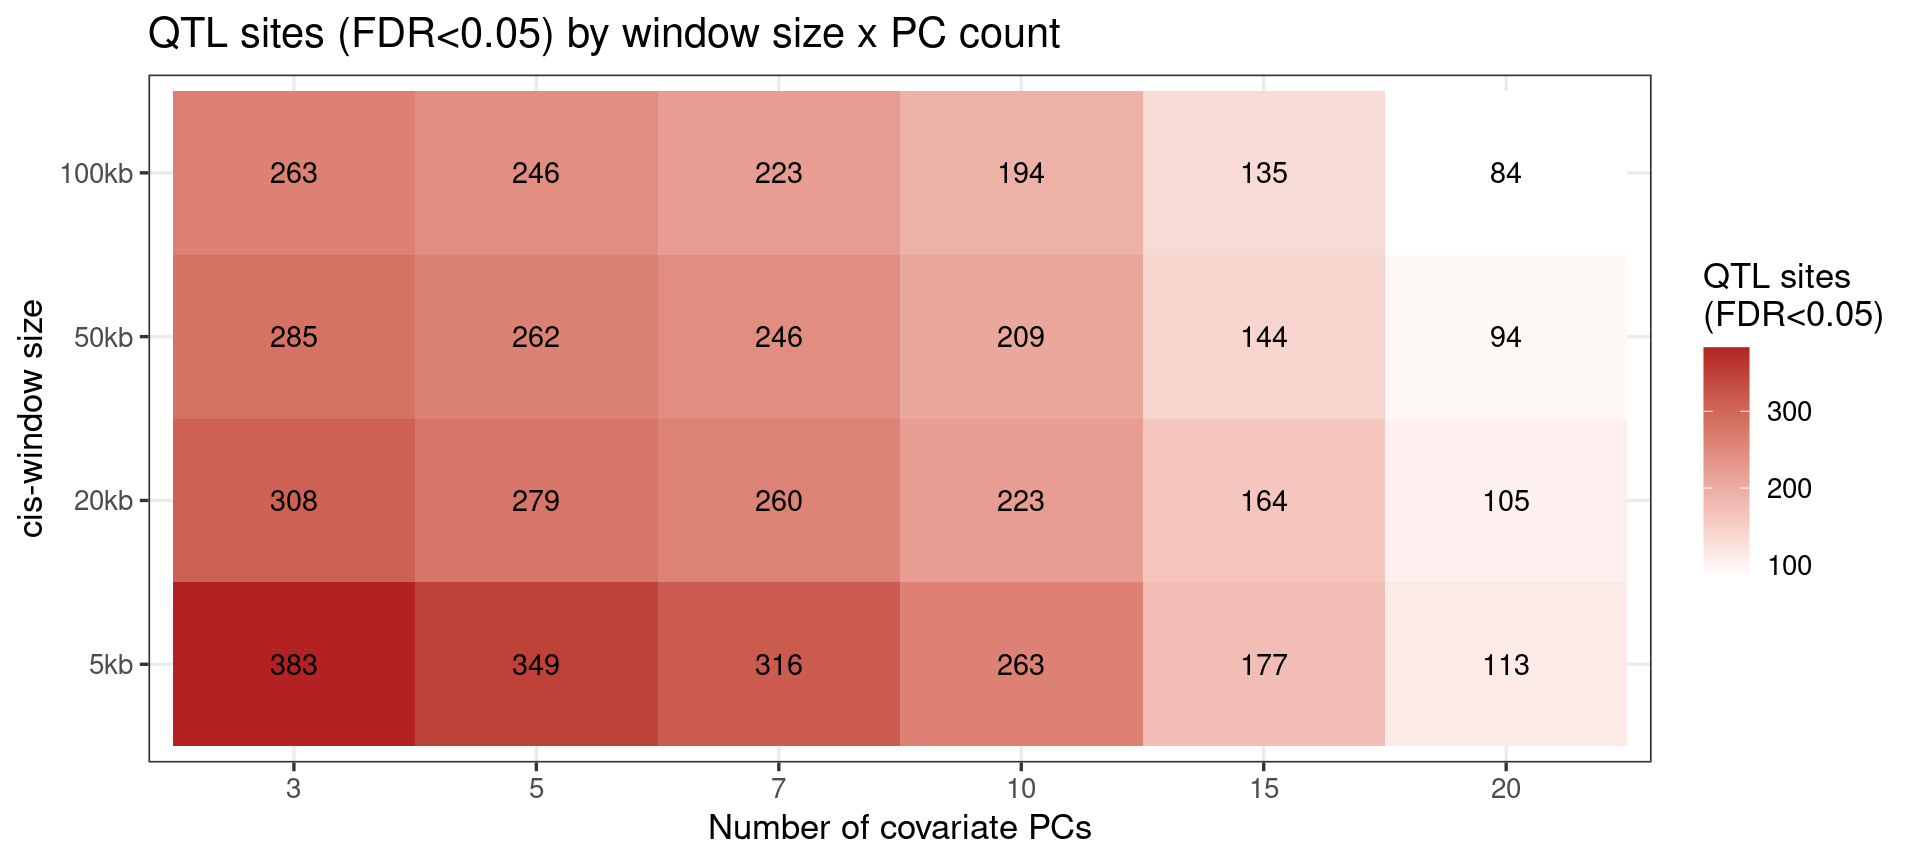
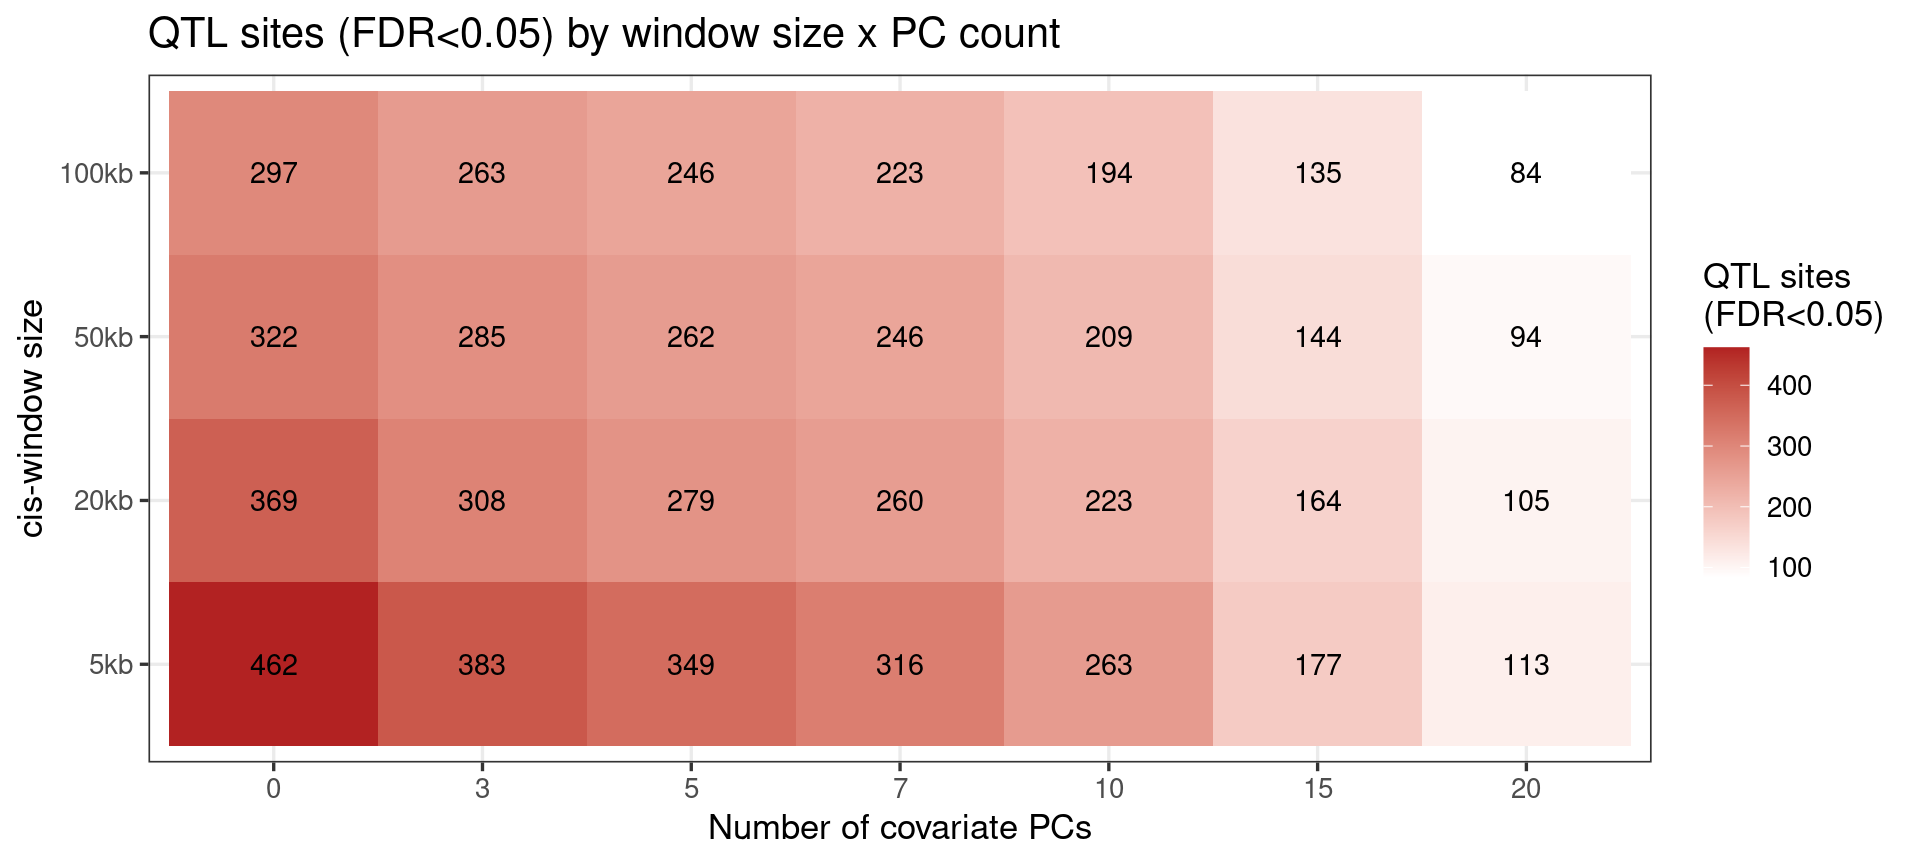
update

diff --git a/docs/qtl_mapping_summary_binomial.html b/docs/qtl_mapping_summary_binomial.html
@@ -11,7 +11,7 @@
 
 <meta name="author" content="XSun" />
 
-<meta name="date" content="2026-07-27" />
+<meta name="date" content="2026-07-31" />
 
 <title>QTL mapping: binomial GLM on the 5-fold union sites</title>
 
@@ -374,7 +374,7 @@ div.tocify {
 <h1 class="title toc-ignore">QTL mapping: binomial GLM on the 5-fold
 union sites</h1>
 <h4 class="author">XSun</h4>
-<h4 class="date">2026-07-27</h4>
+<h4 class="date">2026-07-31</h4>
 
 </div>
 
@@ -403,7 +403,7 @@ aria-hidden="true"></span> </a>
 <div class="tab-content">
 <div id="summary" class="tab-pane fade in active">
 <p>
-<strong>Last updated:</strong> 2026-07-27
+<strong>Last updated:</strong> 2026-07-31
 </p>
 <p>
 <strong>Checks:</strong> <span
@@ -537,15 +537,15 @@ project makes it easier to run your code on other machines.</p>
 <div class="panel panel-default">
 <div class="panel-heading">
 <p class="panel-title">
-<a data-toggle="collapse" data-parent="#workflowr-checks" href="#strongRepositoryversionstrongahrefhttpsgithubcomxsun1229pumseqtree84747dd7624a3da42ce2fbb0f8c8e21635975257targetblank84747dda">
+<a data-toggle="collapse" data-parent="#workflowr-checks" href="#strongRepositoryversionstrongahrefhttpsgithubcomxsun1229pumseqtree08ba4ea47116d7143c4f3de8ca017a9b15c8fa9ctargetblank08ba4eaa">
 <span class="glyphicon glyphicon-ok text-success"
 aria-hidden="true"></span> <strong>Repository version:</strong>
-<a href="https://github.com/xsun1229/pumseq/tree/84747dd7624a3da42ce2fbb0f8c8e21635975257" target="_blank">84747dd</a>
+<a href="https://github.com/xsun1229/pumseq/tree/08ba4ea47116d7143c4f3de8ca017a9b15c8fa9c" target="_blank">08ba4ea</a>
 </a>
 </p>
 </div>
 <div
[2 lines of base64/hex data omitted]
 class="panel-collapse collapse">
 <div class="panel-body">
 <p>
@@ -555,7 +555,7 @@ reproducibility.
 </p>
 <p>
 The results in this page were generated with repository version
-<a href="https://github.com/xsun1229/pumseq/tree/84747dd7624a3da42ce2fbb0f8c8e21635975257" target="_blank">84747dd</a>.
+<a href="https://github.com/xsun1229/pumseq/tree/08ba4ea47116d7143c4f3de8ca017a9b15c8fa9c" target="_blank">08ba4ea</a>.
 See the <em>Past versions</em> tab to see a history of the changes made
 to the R Markdown and HTML files.
 </p>
@@ -570,6 +570,7 @@ were generated:
 </p>
 <pre><code>
 Ignored files:
+    Ignored:    analysis/figure/
     Ignored:    analysis/qtl_mapping_summary_cache/
 
 Unstaged changes:
@@ -620,6 +621,40 @@ Message
 </tr>
 </thead>
 <tbody>
+<tr>
+<td>
+Rmd
+</td>
+<td>
+<a href="https://github.com/xsun1229/pumseq/blob/9791cb2e1193b07fc19f4f57491a1928a6793708/analysis/qtl_mapping_summary_binomial.Rmd" target="_blank">9791cb2</a>
+</td>
+<td>
+XSun
+</td>
+<td>
+2026-07-27
+</td>
+<td>
+update
+</td>
+</tr>
+<tr>
+<td>
+html
+</td>
+<td>
+<a href="https://rawcdn.githack.com/xsun1229/pumseq/9791cb2e1193b07fc19f4f57491a1928a6793708/docs/qtl_mapping_summary_binomial.html" target="_blank">9791cb2</a>
+</td>
+<td>
+XSun
+</td>
+<td>
+2026-07-27
+</td>
+<td>
+update
+</td>
+</tr>
 <tr>
 <td>
 Rmd
@@ -792,7 +827,7 @@ knitr::opts_chunk$set(
 PROJECT_DIR &lt;- &quot;/project/xinhe/xsun/pumseq&quot;
 RES &lt;- file.path(PROJECT_DIR, &quot;pumseq_processed/psi_qtl/qtl_binomial/lrt_results_merged&quot;)
 WINDOWS_KB &lt;- c(5, 20, 50, 100)
-PC_COUNTS  &lt;- c(3, 5, 7, 10, 15, 20)</code></pre>
+PC_COUNTS  &lt;- c(0, 3, 5, 7, 10, 15, 20)</code></pre>
 <div id="introduction" class="section level1">
 <h1>Introduction</h1>
 <p>This page summarizes cis-QTL mapping for pseudouridylation (%pU)
@@ -907,10 +942,11 @@ p per site.</li>
 </ol>
 <p>Two things are swept:</p>
 <ul>
-<li><strong>Covariate PCs</strong>: 3, 5, 7, 10, 15, 20.</li>
+<li><strong>Covariate PCs</strong>: 0 (intercept-only, no phenotype-PC
+covariates), 3, 5, 7, 10, 15, 20.</li>
 <li><strong>cis-window</strong>: 5 kb, 20 kb, 50 kb, 100 kb.</li>
 </ul>
-<p>That is a 6 x 4 grid, each cell a separate scan.</p>
+<p>That is a 7 x 4 grid, each cell a separate scan.</p>
 </div>
 <div id="results-qtl-sites-by-pc-count-and-window-size"
 class="section level1">
@@ -940,6 +976,7 @@ number of PCs</caption>
 <thead>
 <tr class="header">
 <th align="right">window_kb</th>
+<th align="right">0</th>
 <th align="right">3</th>
 <th align="right">5</th>
 <th align="right">7</th>
@@ -951,6 +988,7 @@ number of PCs</caption>
 <tbody>
 <tr class="odd">
 <td align="right">5</td>
+<td align="right">462</td>
 <td align="right">383</td>
 <td align="right">349</td>
 <td align="right">316</td>
@@ -960,6 +998,7 @@ number of PCs</caption>
 </tr>
 <tr class="even">
 <td align="right">20</td>
+<td align="right">369</td>
 <td align="right">308</td>
 <td align="right">279</td>
 <td align="right">260</td>
@@ -969,6 +1008,7 @@ number of PCs</caption>
 </tr>
 <tr class="odd">
 <td align="right">50</td>
+<td align="right">322</td>
 <td align="right">285</td>
 <td align="right">262</td>
 <td align="right">246</td>
@@ -978,6 +1018,7 @@ number of PCs</caption>
 </tr>
 <tr class="even">
 <td align="right">100</td>
+<td align="right">297</td>
 <td align="right">263</td>
 <td align="right">246</td>
 <td align="right">223</td>
@@ -1016,6 +1057,17 @@ Date
 </tr>
 </thead>
 <tbody>
+<tr>
+<td>
+<a href="https://github.com/xsun1229/pumseq/blob/9791cb2e1193b07fc19f4f57491a1928a6793708/docs/figure/qtl_mapping_summary_binomial.Rmd/qtl-vs-pc-1.png" target="_blank">9791cb2</a>
+</td>
+<td>
+XSun
+</td>
+<td>
+2026-07-27
+</td>
+</tr>
 <tr>
 <td>
 <a href="https://github.com/xsun1229/pumseq/blob/84747dd7624a3da42ce2fbb0f8c8e21635975257/docs/figure/qtl_mapping_summary_binomial.Rmd/qtl-vs-pc-1.png" target="_blank">84747dd</a>
@@ -1074,6 +1126,17 @@ Date
 <tbody>
 <tr>
 <td>
+<a href="https://github.com/xsun1229/pumseq/blob/9791cb2e1193b07fc19f4f57491a1928a6793708/docs/figure/qtl_mapping_summary_binomial.Rmd/qtl-heatmap-1.png" target="_blank">9791cb2</a>
+</td>
+<td>
+XSun
+</td>
+<td>
+2026-07-27
+</td>
+</tr>
+<tr>
+<td>
 <a href="https://github.com/xsun1229/pumseq/blob/84747dd7624a3da42ce2fbb0f8c8e21635975257/docs/figure/qtl_mapping_summary_binomial.Rmd/qtl-heatmap-1.png" target="_blank">84747dd</a>
 </td>
 <td>
@@ -1101,14 +1164,16 @@ XSun
 <p>QTL counts <strong>fall monotonically as more covariate PCs are
 added</strong>, at every window size, and the <strong>cis-window has
 little effect</strong> (for a given PC count all four windows give
-nearly the same count). The most sites are called with the
-<strong>fewest PCs</strong> (k=3, the smallest tested).</p>
+nearly the same count). The most sites are called with <strong>no PC
+covariates at all</strong> (k=0, intercept-only) — 462 sites at
+FDR&lt;0.05, 5kb — and counts decline steadily from there through k=3
+(383) up to k=20 (113).</p>
 <!-- This is the opposite of the usual eQTL PC sweep, where a few PCs boost -->
 <!-- power. It points one of two ways: (a) the M-value PCs are absorbing real -->
 <!-- signal (so few/no PCs are best), or (b) low PC counts under-correct and the -->
-<!-- extra calls at low k are inflated. The calibration check (permutation) at -->
-<!-- low k is what distinguishes these, and is the next step. Because discoveries -->
-<!-- keep rising toward k=3, k=0/1/2 should also be tested. -->
+<!-- extra calls at low k are inflated. The calibration check (permutation) -->
+<!-- below was only run at 5kb/3PC, not at k=0 -- so whether k=0's higher count -->
+<!-- reflects (a) or (b) is still open. -->
 <!-- # 5. Top QTL sites -->
 <!-- ```{r top-hits} -->
 <!-- best <- summary_tbl[which.max(qtl_FDR05)] -->
@@ -1132,7 +1197,9 @@ genomic-inflation factor <code>lambda</code> (median chi-square / 0.455;
 should be ~1 under a calibrated null) and a QQ-plot. Same
 negative-control permutation as the <a
 href="qtl_mapping_summary_floor0_quantile.html#Permutation_control">linear
-model</a>. Run at the peak config (<strong>5 kb, 3 PCs</strong>).</p>
+model</a>. Run at <strong>5 kb, 3 PCs</strong> (the smallest PC count
+calibration was checked at; k=0 has not been calibration-tested, so its
+higher raw discovery count above should be read with that caveat).</p>
 <pre class="r"><code>CAL_LRT &lt;- file.path(PROJECT_DIR, &quot;pumseq_processed/psi_qtl/qtl_binomial/lrt_calibration&quot;)
 lam_lrt &lt;- fread(file.path(CAL_LRT, &quot;calib_lrt_w5kb_pc3_lambda.txt&quot;))
 knitr::kable(lam_lrt, digits = 2,
@@ -1209,7 +1276,7 @@ Session information
 <pre class="r"><code>sessionInfo()</code></pre>
 <pre><code>R version 4.2.0 (2022-04-22)
 Platform: x86_64-pc-linux-gnu (64-bit)
-Running under: Red Hat Enterprise Linux 8.10 (Ootpa)
+Running under: Red Hat Enterprise Linux 8.4 (Ootpa)
 
 Matrix products: default
 BLAS/LAPACK: /software/openblas-0.3.13-el8-x86_64/lib/libopenblas_skylakexp-r0.3.13.so

diff --git a/docs/site_libs/navigation-1.1/codefolding.js b/docs/site_libs/navigation-1.1/codefolding.js
@@ -31,7 +31,7 @@ window.initializeCodeFolding = function(show) {
     $(this).detach().appendTo(div);
 
     // add a show code button right above
-    var showCodeText = $('<span>' + (showThis ? 'Hide' : 'Show') + '</span>');
+    var showCodeText = $('<span>' + (showThis ? 'Hide' : 'Code') + '</span>');
     var showCodeButton = $('<button type="button" class="btn btn-default btn-xs btn-secondary btn-sm code-folding-btn pull-right float-right"></button>');
     showCodeButton.append(showCodeText);
     showCodeButton
@@ -57,7 +57,7 @@ window.initializeCodeFolding = function(show) {
     //   * Change text
     //   * add a class for intermediate states styling
     div.on('hide.bs.collapse', function () {
-      showCodeText.text('Show');
+      showCodeText.text('Code');
       showCodeButton.addClass('btn-collapsing');
     });
     div.on('hidden.bs.collapse', function () {
